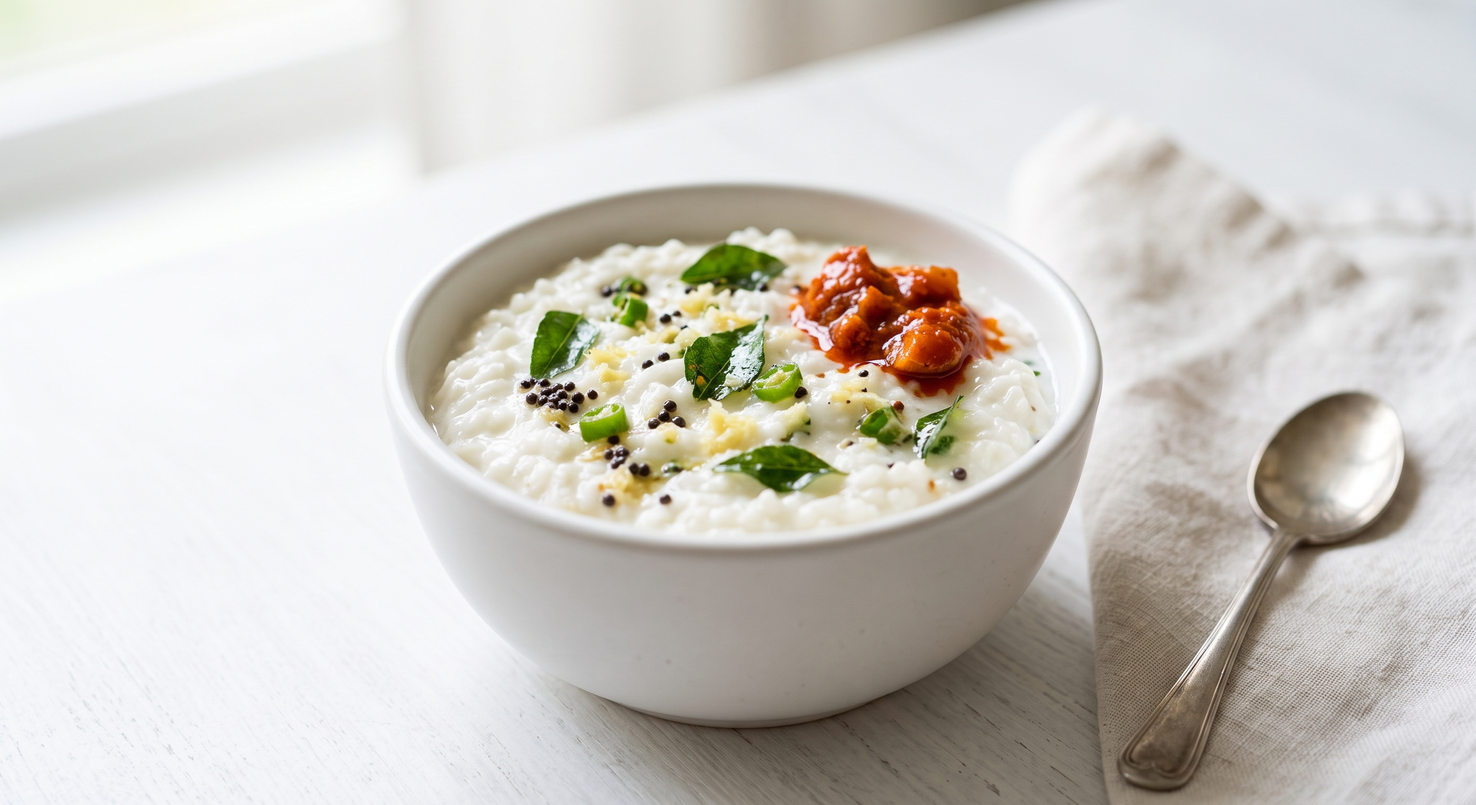
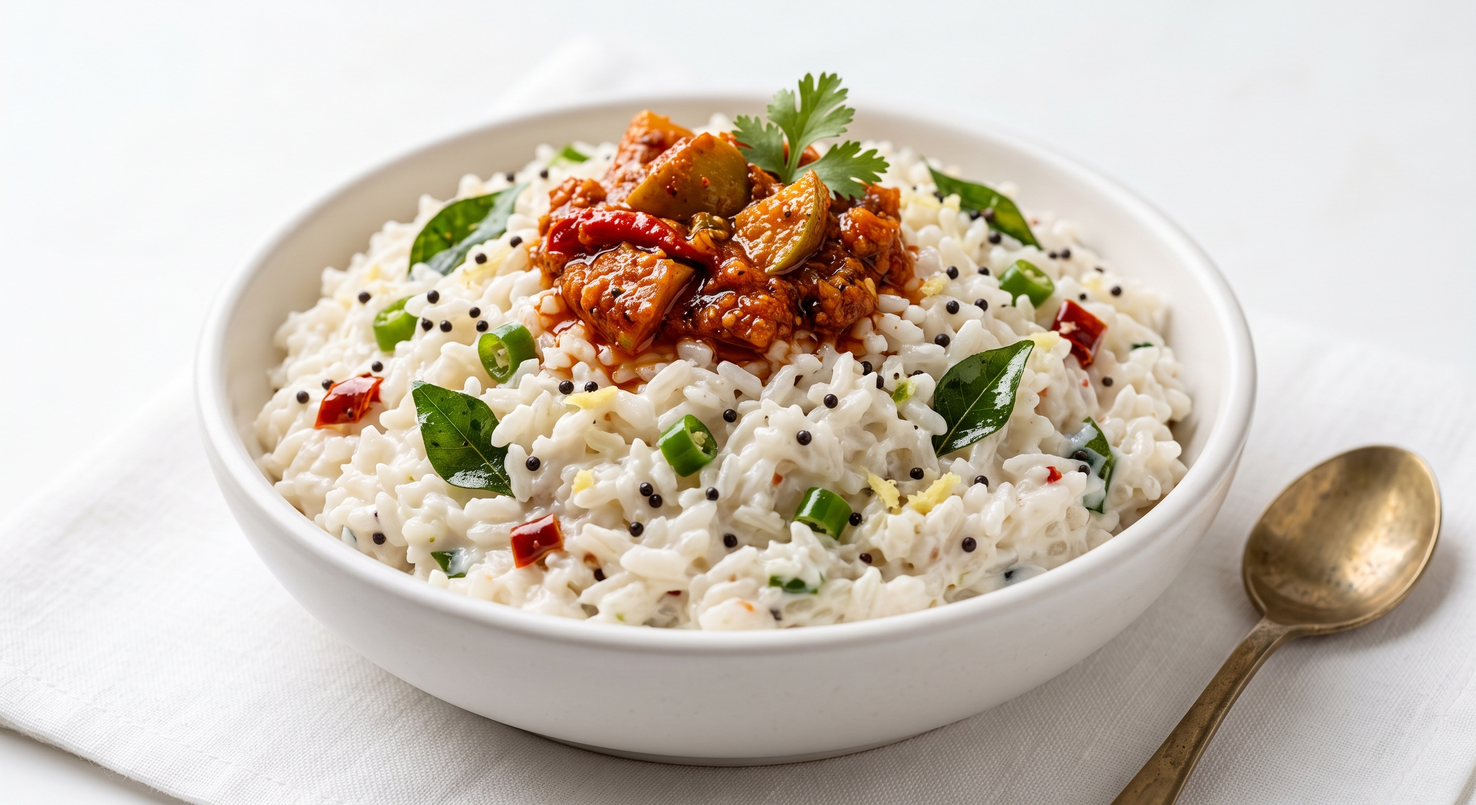
Curd Rice and Pickle: 179K, bigger portion, visible rice grains to differentiate from kheer

diff --git a/theater-menu-photography/build_menu_items.py b/theater-menu-photography/build_menu_items.py
@@ -323,8 +323,8 @@ items += [
          "Fluffy separate long-grain white basmati rice mounded gently, finished with a single fresh cilantro leaf."),
     item("Jeera Rice", 99, "basmati rice tempered with cumin and aromatic spices", cat, "copper_handi_rice",
          "Fluffy basmati rice flecked with visible toasted cumin seeds, finished with a dried red chilli and fresh cilantro."),
-    item("Curd Rice and Pickle", 175, "creamy yogurt rice tempered with mustard seeds and curry leaves, served with tangy Indian pickle", cat, "small_white_bowl",
-         "Smooth, creamy white curd rice studded with a mustard seed and curry leaf tempering, a small dollop of vivid red-orange mixed pickle on the side, garnished with a few curry leaves."),
+    item("Curd Rice and Pickle", 179, "creamy yogurt rice tempered with mustard seeds and curry leaves, served with tangy Indian pickle", cat, "small_white_bowl",
+         "A generous, large portion filling the bowl completely and mounded high — curd rice where individual grains of rice are clearly visible and distinct throughout (never a smooth, pureed, or pudding-like texture like a kheer or rice pudding — this must look like whole grains of rice coated in thick yogurt, not a blended dessert), studded with a visible mustard seed and curry leaf tempering and fresh curry leaves, with a generous, prominent dollop of vivid red-orange mixed pickle on top so the pickle is clearly visible, not hidden."),
 ]
 
 # ---------------- Biryani ----------------
